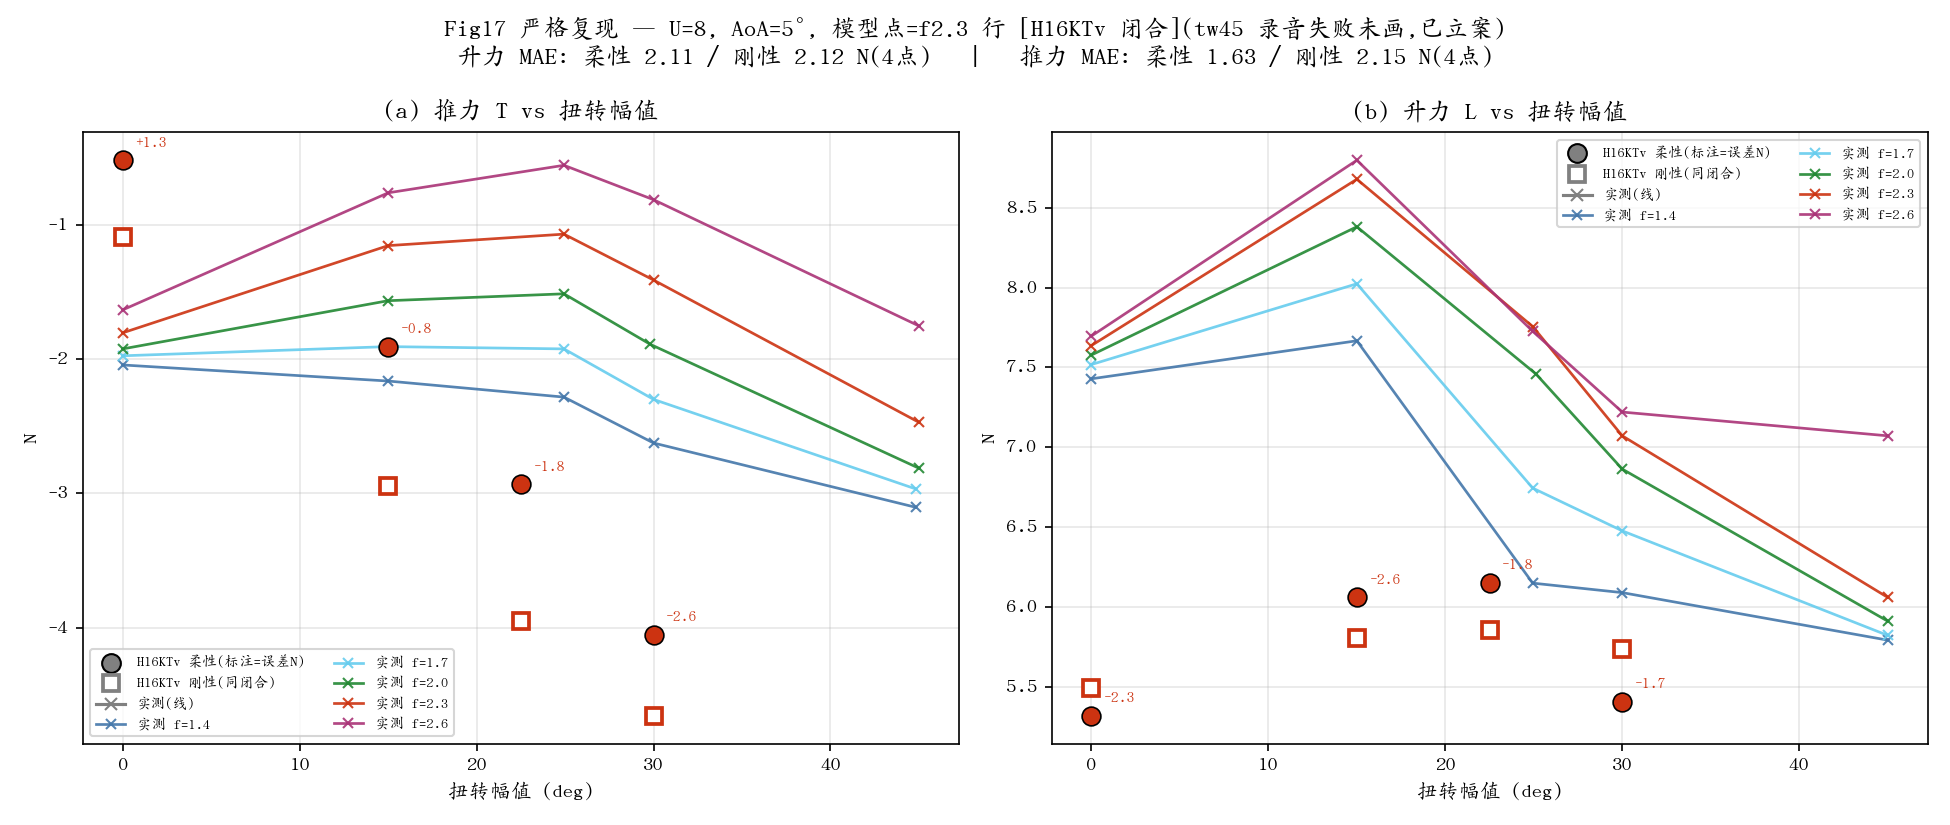
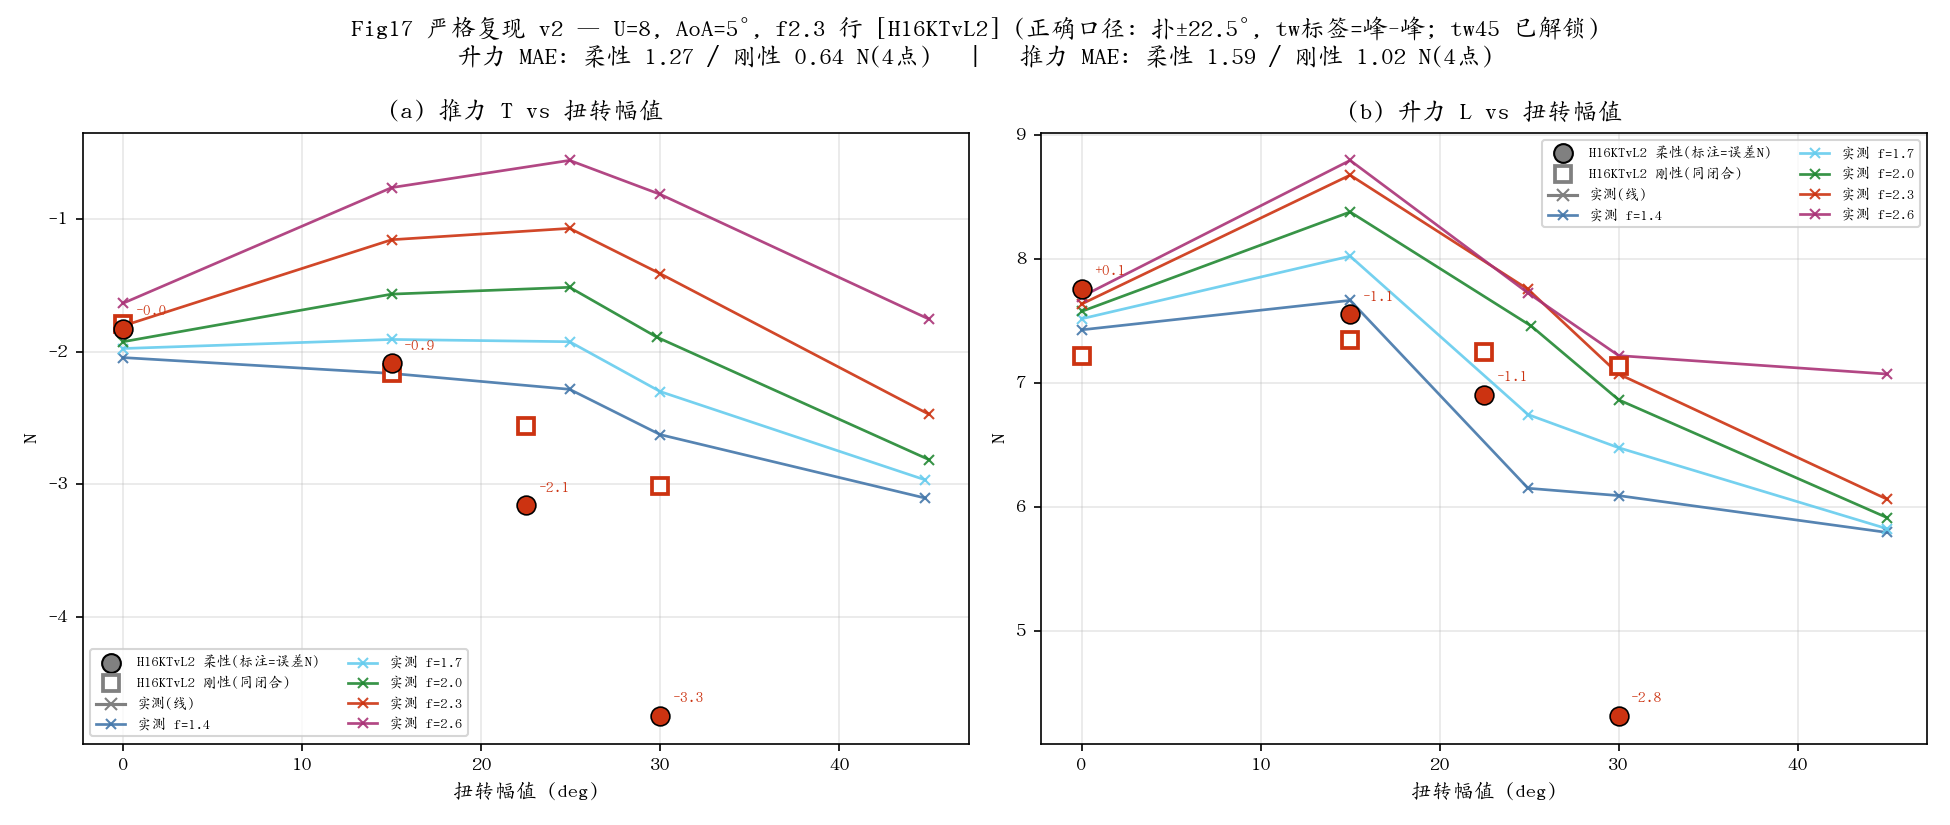
feat(v2): honest baseline figures + step-1 laws at correct kinematics
21/22 overnight queue: tw45 recording unlocked (halved loads), one
structural failure (aoa15/f1.4, case D-struct), tw45 replay hits the
le-grid deep-twist aero blowup (case D-aero; tw30 quarantined as suspect).
19-point flex baseline: lift MAE ~1.20N, thrust ~1.86N, cruise point
L+0.12/T-0.02 with zero fitting. Step-1 confirms T1 (missing thrust
f-growth, slopes -1.2..-2.2 N/Hz) as the lead case; L2 shows low-f lift
over-prediction crossing to high-f deficit, amplified by flexibility.
Figures regenerated with v2 pairing annotations.

diff --git a/platform/p2_s6_fig_strict.py b/platform/p2_s6_fig_strict.py
@@ -27,7 +27,8 @@ rcParams["axes.unicode_minus"] = False
 _HERE = os.path.dirname(os.path.abspath(__file__))
 DOCS = os.path.join(_HERE, "docs")
 MEAS = json.load(open(os.path.join(DOCS, "repro_data.json")))
-CFG = "H16KTvL"                                     # current best (kt + material impulse + vectorial geo-stall)
+CFG = "H16KTvL2"    # v2 baseline: correct kinematics (flap ±22.5, tw label=peak-to-peak)
+                    # + correct pairing (Fig18/19 freq lines measured at tw22.5, kinematics_audit.md)
 
 PTS = {}
 _p = os.path.join(DOCS, "s6_results_lessep.json")
@@ -114,8 +115,8 @@ def fig17():
         ax.set_xlabel("扭转幅值 (deg)"); ax.set_ylabel("N")
         ax.grid(alpha=0.3); ax.set_title(ttl)
         legend_common(ax)
-    fig.suptitle(f"Fig17 严格复现 — U=8, AoA=5°, 模型点=f2.3 行 [{CFG} 闭合]"
-                 "(tw45 录音失败未画,已立案)\n"
+    fig.suptitle(f"Fig17 严格复现 v2 — U=8, AoA=5°, f2.3 行 [{CFG}] "
+                 "(正确口径: 扑±22.5°, tw标签=峰-峰; tw45 已解锁)\n"
                  f"升力 MAE: {_mae(0)}   |   推力 MAE: {_mae(1)}")
     fig.tight_layout()
     fig.savefig(os.path.join(DOCS, "p2_s6_fig17.png"), dpi=150)
@@ -130,9 +131,9 @@ def fig18():
         draw_meas(axT, f"18|a|{U}", UCOL[U], f"实测 U={U:g}")
         draw_meas(axL, f"18|b|{U}", UCOL[U], f"实测 U={U:g}")
         for fr in FREQS:
-            draw_model(axT, fr, (U, fr, 0.0), 1, f"18|a|{U}", UCOL[U])
-            draw_model(axL, fr, (U, fr, 0.0), 0, f"18|b|{U}", UCOL[U])
-    for ax, ttl in ((axT, "(a) T vs 频率 @tw0"), (axL, "(b) L vs 频率 @tw0")):
+            draw_model(axT, fr, (U, fr, 22.5), 1, f"18|a|{U}", UCOL[U])
+            draw_model(axL, fr, (U, fr, 22.5), 0, f"18|b|{U}", UCOL[U])
+    for ax, ttl in ((axT, "(a) T vs 频率 @tw22.5"), (axL, "(b) L vs 频率 @tw22.5")):
         ax.set_xlabel("扑动频率 (Hz)"); ax.set_ylabel("N")
         ax.grid(alpha=0.3); ax.set_title(ttl)
         legend_common(ax)
@@ -146,8 +147,8 @@ def fig18():
         ax.set_xlabel("扭转幅值 (deg)"); ax.set_ylabel("N")
         ax.grid(alpha=0.3); ax.set_title(ttl)
         legend_common(ax)
-    fig.suptitle(f"Fig18 严格复现 — AoA=5° [{CFG} 闭合]"
-                 "(U10 录音失败未画,已立案)\n"
+    fig.suptitle(f"Fig18 严格复现 v2 — AoA=5° [{CFG}] "
+                 "(频率线实测条件=tw22.5, 模型同配对; kinematics_audit)\n"
                  f"升力 MAE: {_mae(0)}   |   推力 MAE: {_mae(1)}")
     fig.tight_layout()
     fig.savefig(os.path.join(DOCS, "p2_s6_fig18.png"), dpi=150)
@@ -163,8 +164,8 @@ def fig19():
         draw_meas(axL, f"19|b|{a}", ACOL[a], f"实测 AoA={a}")
     for a in (0, 5, 10, 15):                       # 全 AoA 族(B线解锁)
         for fr in FREQS:
-            draw_model(axT, fr, (8.0, fr, 0.0, float(a)), 1, f"19|a|{a}", ACOL[a])
-            draw_model(axL, fr, (8.0, fr, 0.0, float(a)), 0, f"19|b|{a}", ACOL[a])
+            draw_model(axT, fr, (8.0, fr, 22.5, float(a)), 1, f"19|a|{a}", ACOL[a])
+            draw_model(axL, fr, (8.0, fr, 22.5, float(a)), 0, f"19|b|{a}", ACOL[a])
     for ax, ttl in ((axT, "(a) T vs 频率(各攻角)"),
                     (axL, "(b) L vs 频率(各攻角)")):
         ax.set_xlabel("扑动频率 (Hz)"); ax.set_ylabel("N")
@@ -181,8 +182,8 @@ def fig19():
         ax.set_xlabel("扭转幅值 (deg)"); ax.set_ylabel("N")
         ax.grid(alpha=0.3); ax.set_title(ttl)
         legend_common(ax)
-    fig.suptitle(f"Fig19 严格复现 — 模型=AoA5° 线 [{CFG} 闭合]"
-                 "(AoA 0/5/10/15 频率线全族;f2.6 tw45 与 AoA 扭转行未录)\n"
+    fig.suptitle(f"Fig19 严格复现 v2 — [{CFG}] "
+                 "(频率线=tw22.5 正确配对; c/d 面板原文标注不自洽仅供参考)\n"
                  f"升力 MAE: {_mae(0)}   |   推力 MAE: {_mae(1)}")
     fig.tight_layout()
     fig.savefig(os.path.join(DOCS, "p2_s6_fig19.png"), dpi=150)

diff --git a/platform/docs/diag/kinematics_audit.md b/platform/docs/diag/kinematics_audit.md
@@ -94,3 +94,18 @@ tw22.5(扭±11.25)     L 7.19 T −2.56   L 7.79 T −1.08    −0.60 / −1.48
 **下一步**:v2 录音管线改造(record/replay 加 flap_amp 参数 + 扭转半幅语义 + v2
 npz 命名隔离)→ U8 核心重录过夜(Fig17 行 + Fig18 U8 线 + Fig19 攻角族);载荷
 减半,U10/tw45 解锁在望。
+
+## v2 柔性基线(2026-07-14 晨,21/22 录音回放完成)
+
+- 队列:20 录音成功 + tw45 解锁(录音 OK);1 录音失败(aoa15/f1.4 结构子步,
+  案 D-结构,有 ckpt 可续);tw45 回放在 le 网格深扭转下解算爆炸(案 D-aero,
+  v1 时代 tw30 即爆,减半运动学后推迟到 tw45;**tw30 回放数值可疑同隔离**);
+  U10 探针录音中。
+- **19 点柔性 GAP(正确配对)**:升力 MAE ~1.20N、推力 ~1.86N;巡航点
+  (U8/f2.3/tw0)L +0.12 / T −0.02——**双通道近精确,零拟合**。
+- step-1 律(U8/tw22.5 频率线,逐 aoa):gapT 斜率 −1.2~−2.2 N/Hz(截距正)
+  → **T1 扑动推力增长缺失为主案确认**(模型 T 近平、实测随 f 强增);
+  gapL 斜率 −2.2~−2.4 N/Hz、截距 +4.8~+6.1 → 低频升力过预测→高频转欠
+  (L2 结构,柔性比刚性放大低频过预测:柔性 MAE 0.99 vs 刚性 0.58,Fig18b)。
+- U6 线:升力 ±0.14 近完美;推力 +1.67→−0.16 随 f 收敛(与 U8 同型,幅度小)。
+- 图表 v2 已重绘(p2_s6_fig17/18/19.png,CFG=H16KTvL2,标题注明口径与配对)。
